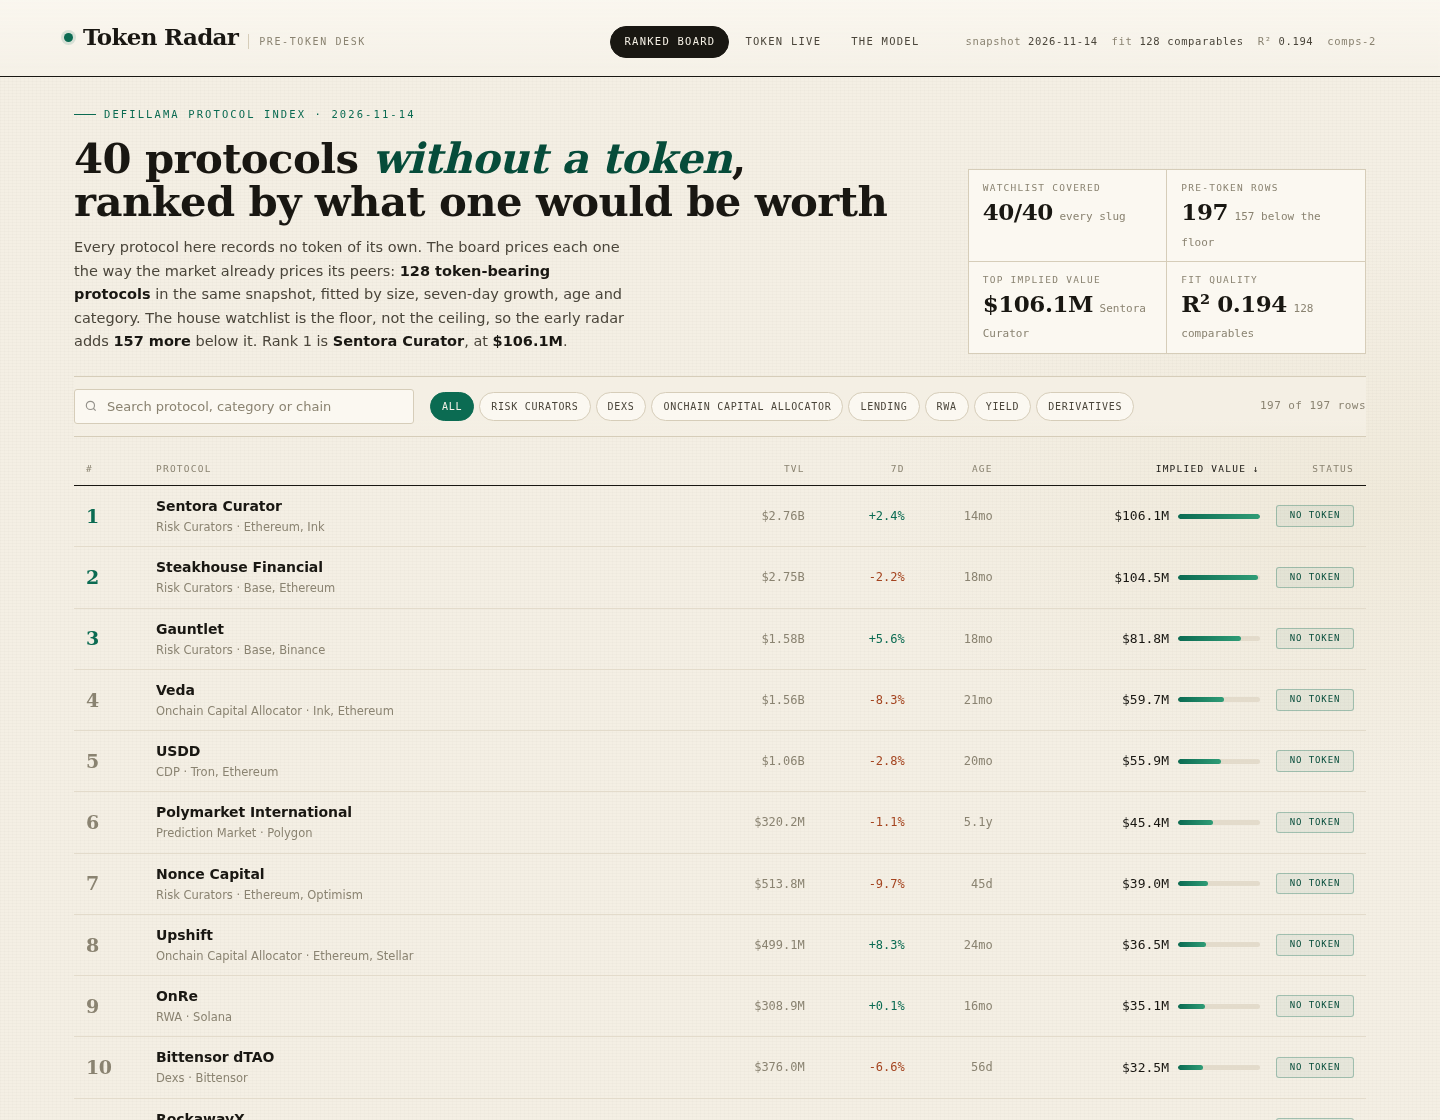
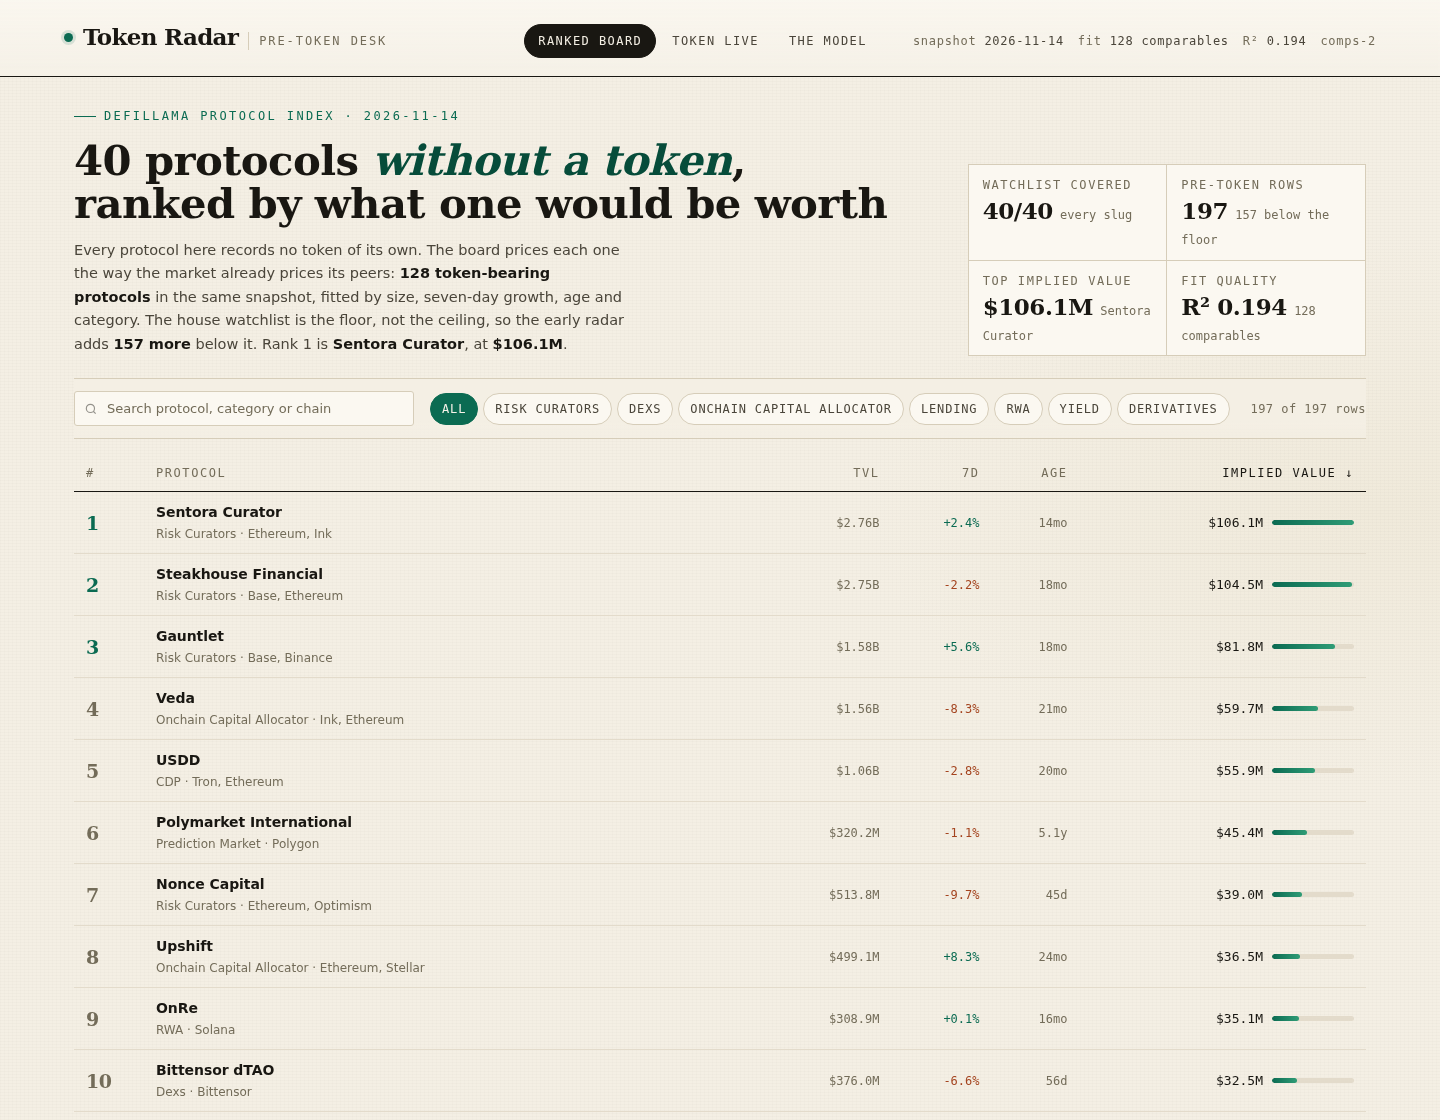
Dashboard: make the smallest text legible and drop a dead column
Three defects a reader would see, none of which the markup revealed.

--ink-faint was 3.29:1 on the paper background, under the 4.5:1 WCAG AA
floor for body text, and it carried the smallest text on the page. It
is now 4.56:1 on paper and 4.93:1 on card, same warm hue.

Seventeen font sizes sat between 9px and 11.5px, which reads as grey
texture rather than words at screenshot scale. Every size is now 12px
or larger; the grid was re-checked at 1440, tablet and phone widths and
no cell overflows or clips.

The last column was a 'no token' badge, identical in all 197 rows on a
board where every protocol is pre-token. It cost 78px and told a reader
nothing. Removed; the fact stays in the lede and each detail sheet, and
the name and value columns take the room.

diff --git a/dashboard/app.css b/dashboard/app.css
@@ -8,7 +8,7 @@
   --card:       #fbf8f1;
   --ink:        #191712;
   --ink-soft:   #4a453a;
-  --ink-faint:  #8a8371;
+  --ink-faint:  #736c59;   /* 4.56:1 on paper, 4.93:1 on card: the smallest text still clears AA */
   --rule:       #d6cdb9;
   --rule-soft:  #e3dbcb;
   --signal:     #0b6b52;   /* the one accent: a deep bottle green */
@@ -76,19 +76,19 @@ button { font: inherit; color: inherit; cursor: pointer; background: none; borde
 .pip { width: 9px; height: 9px; border-radius: 50%; background: var(--signal); align-self: center; box-shadow: 0 0 0 3px rgba(11,107,82,.14); }
 .wordmark { font-family: var(--serif); font-size: 23px; font-weight: 700; letter-spacing: -0.03em; }
 .mast-tag {
-  font-family: var(--mono); font-size: 10px; letter-spacing: .16em; text-transform: uppercase;
+  font-family: var(--mono); font-size: 12px; letter-spacing: .16em; text-transform: uppercase;
   color: var(--ink-faint); padding-left: 10px; border-left: 1px solid var(--rule);
 }
 .mast-nav { display: flex; gap: 2px; margin-left: auto; }
 .mast-nav button {
-  font-family: var(--mono); font-size: 10.5px; letter-spacing: .12em; text-transform: uppercase;
+  font-family: var(--mono); font-size: 12px; letter-spacing: .12em; text-transform: uppercase;
   padding: 7px 13px; border-radius: 999px; color: var(--ink-soft);
   border: 1px solid transparent; transition: background .15s, color .15s, border-color .15s;
 }
 .mast-nav button:hover { background: var(--paper-deep); color: var(--ink); }
 .mast-nav button[aria-selected="true"] { background: var(--ink); color: var(--paper); border-color: var(--ink); }
 .mast-meta {
-  font-family: var(--mono); font-size: 10.5px; letter-spacing: .06em; color: var(--ink-faint);
+  font-family: var(--mono); font-size: 12px; letter-spacing: .06em; color: var(--ink-faint);
   display: flex; gap: 14px; flex-wrap: wrap;
 }
 .mast-meta b { color: var(--ink-soft); font-weight: 500; }
@@ -103,7 +103,7 @@ button { font: inherit; color: inherit; cursor: pointer; background: none; borde
   padding: 30px 0 22px; border-bottom: 1px solid var(--rule);
 }
 .kicker {
-  font-family: var(--mono); font-size: 10.5px; letter-spacing: .2em; text-transform: uppercase;
+  font-family: var(--mono); font-size: 12px; letter-spacing: .2em; text-transform: uppercase;
   color: var(--signal); margin-bottom: 14px; display: flex; align-items: center; gap: 8px;
 }
 .kicker::before { content: ""; width: 22px; height: 1px; background: var(--signal); }
@@ -114,9 +114,9 @@ button { font: inherit; color: inherit; cursor: pointer; background: none; borde
 
 .stats { display: grid; grid-template-columns: 1fr 1fr; gap: 1px; background: var(--rule); border: 1px solid var(--rule); }
 .stat { background: var(--card); padding: 11px 14px; }
-.stat .k { font-family: var(--mono); font-size: 9.5px; letter-spacing: .13em; text-transform: uppercase; color: var(--ink-faint); }
+.stat .k { font-family: var(--mono); font-size: 12px; letter-spacing: .13em; text-transform: uppercase; color: var(--ink-faint); }
 .stat .v { font-family: var(--serif); font-size: 23px; line-height: 1.1; font-weight: 600; margin-top: 4px; letter-spacing: -.02em; }
-.stat .v small { font-family: var(--mono); font-size: 11px; color: var(--ink-faint); font-weight: 400; letter-spacing: 0; }
+.stat .v small { font-family: var(--mono); font-size: 12px; color: var(--ink-faint); font-weight: 400; letter-spacing: 0; }
 
 /* ── toolbar ──────────────────────────────────────────────────────────────── */
 
@@ -134,25 +134,25 @@ button { font: inherit; color: inherit; cursor: pointer; background: none; borde
 .search svg { position: absolute; left: 10px; top: 50%; transform: translateY(-50%); opacity: .45; }
 .chips { display: flex; gap: 5px; flex-wrap: wrap; }
 .chip {
-  font-family: var(--mono); font-size: 10px; letter-spacing: .07em; text-transform: uppercase;
+  font-family: var(--mono); font-size: 12px; letter-spacing: .07em; text-transform: uppercase;
   padding: 6px 11px; border: 1px solid var(--rule); border-radius: 999px; color: var(--ink-soft);
   background: var(--card); transition: all .14s;
 }
 .chip:hover { border-color: var(--ink-soft); color: var(--ink); }
 .chip[aria-pressed="true"] { background: var(--signal); border-color: var(--signal); color: #f6f2e8; }
-.toolbar .count { margin-left: auto; font-family: var(--mono); font-size: 11px; color: var(--ink-faint); letter-spacing: .04em; }
+.toolbar .count { margin-left: auto; font-family: var(--mono); font-size: 12px; color: var(--ink-faint); letter-spacing: .04em; }
 
 /* ── board ────────────────────────────────────────────────────────────────── */
 
 .board { margin-top: var(--s4); }
 .board-head, .row {
   display: grid;
-  grid-template-columns: 54px minmax(0, 2.35fr) 96px 84px 72px minmax(150px, 1.1fr) 78px;
+  grid-template-columns: 54px minmax(0, 2.6fr) 96px 84px 72px minmax(160px, 1.15fr);
   gap: var(--s4); align-items: center;
 }
 .board-head {
   padding: 9px var(--s3); border-bottom: 1px solid var(--ink);
-  font-family: var(--mono); font-size: 9.5px; letter-spacing: .13em; text-transform: uppercase; color: var(--ink-faint);
+  font-family: var(--mono); font-size: 12px; letter-spacing: .13em; text-transform: uppercase; color: var(--ink-faint);
 }
 .board-head button { color: inherit; letter-spacing: inherit; font-size: inherit; font-family: inherit; text-transform: inherit; padding: 0; text-align: left; }
 .board-head button:hover { color: var(--ink); }
@@ -173,7 +173,7 @@ button { font: inherit; color: inherit; cursor: pointer; background: none; borde
 }
 .row.top .rank { color: var(--signal); }
 .row .who b { display: block; font-weight: 600; font-size: 14px; letter-spacing: -.005em; }
-.row .who span { display: block; font-size: 11.5px; color: var(--ink-faint); margin-top: 2px; }
+.row .who span { display: block; font-size: 12px; color: var(--ink-faint); margin-top: 2px; }
 .row .num { font-family: var(--mono); font-size: 12px; font-variant-numeric: tabular-nums; text-align: right; }
 .row .num.pos { color: var(--signal); }
 .row .num.neg { color: var(--warn); }
@@ -183,7 +183,7 @@ button { font: inherit; color: inherit; cursor: pointer; background: none; borde
 .meter { flex: 1; max-width: 82px; height: 5px; background: var(--rule-soft); border-radius: 999px; overflow: hidden; }
 .meter i { display: block; height: 100%; background: linear-gradient(90deg, var(--signal), #2f9c76); border-radius: 999px; }
 .badge {
-  font-family: var(--mono); font-size: 9px; letter-spacing: .1em; text-transform: uppercase;
+  font-family: var(--mono); font-size: 12px; letter-spacing: .1em; text-transform: uppercase;
   color: var(--signal-ink); border: 1px solid rgba(11,107,82,.32); background: rgba(11,107,82,.06);
   padding: 3px 7px; border-radius: var(--r1); text-align: center; white-space: nowrap;
 }
@@ -203,7 +203,7 @@ button { font: inherit; color: inherit; cursor: pointer; background: none; borde
 .note p { color: var(--ink-soft); max-width: 52ch; }
 .note p + p { margin-top: 10px; }
 .formula {
-  font-family: var(--mono); font-size: 11.5px; line-height: 1.85; color: var(--ink);
+  font-family: var(--mono); font-size: 12px; line-height: 1.85; color: var(--ink);
   background: var(--card); border: 1px solid var(--rule); border-left: 3px solid var(--signal);
   padding: 14px 16px; border-radius: var(--r1); white-space: pre-wrap; word-break: break-word;
 }
@@ -217,7 +217,7 @@ button { font: inherit; color: inherit; cursor: pointer; background: none; borde
 .effect .e { font-family: var(--mono); text-align: right; font-variant-numeric: tabular-nums; }
 .effect .e.pos { color: var(--signal); }
 .effect .e.neg { color: var(--warn); }
-.effect .c { font-family: var(--mono); font-size: 10px; color: var(--ink-faint); text-align: right; }
+.effect .c { font-family: var(--mono); font-size: 12px; color: var(--ink-faint); text-align: right; }
 
 /* ── detail sheet ─────────────────────────────────────────────────────────── */
 
@@ -232,12 +232,12 @@ button { font: inherit; color: inherit; cursor: pointer; background: none; borde
   display: flex; align-items: flex-start; gap: var(--s4);
   padding: var(--s5) var(--s6) var(--s4); border-bottom: 1px solid var(--ink);
 }
-.sheet-head .rankline { font-family: var(--mono); font-size: 10px; letter-spacing: .14em; text-transform: uppercase; color: var(--signal); }
+.sheet-head .rankline { font-family: var(--mono); font-size: 12px; letter-spacing: .14em; text-transform: uppercase; color: var(--signal); }
 .sheet-head h2 { font-size: 30px; line-height: 1.08; margin-top: 6px; }
 .sheet-head .sub { color: var(--ink-faint); font-size: 12.5px; margin-top: 4px; }
 .sheet-close {
   margin-left: auto; border: 1px solid var(--rule); border-radius: 999px; padding: 6px 13px;
-  font-family: var(--mono); font-size: 10px; letter-spacing: .1em; text-transform: uppercase;
+  font-family: var(--mono); font-size: 12px; letter-spacing: .1em; text-transform: uppercase;
   background: var(--paper); flex: none;
 }
 .sheet-close:hover { border-color: var(--ink); }
@@ -245,12 +245,12 @@ button { font: inherit; color: inherit; cursor: pointer; background: none; borde
 
 .equation { display: grid; grid-template-columns: repeat(3, 1fr); gap: 1px; background: var(--rule); border: 1px solid var(--rule); margin-bottom: var(--s5); }
 .equation div { background: var(--paper); padding: 12px 14px; }
-.equation span { display: block; font-family: var(--mono); font-size: 9.5px; letter-spacing: .11em; text-transform: uppercase; color: var(--ink-faint); }
+.equation span { display: block; font-family: var(--mono); font-size: 12px; letter-spacing: .11em; text-transform: uppercase; color: var(--ink-faint); }
 .equation b { display: block; font-family: var(--mono); font-size: 15px; font-weight: 500; margin-top: 4px; font-variant-numeric: tabular-nums; }
 .equation b.big { font-family: var(--serif); font-size: 23px; color: var(--signal-ink); letter-spacing: -.02em; }
 
 .sheet h3 {
-  font-family: var(--mono); font-size: 10px; letter-spacing: .16em; text-transform: uppercase;
+  font-family: var(--mono); font-size: 12px; letter-spacing: .16em; text-transform: uppercase;
   color: var(--ink-faint); padding-bottom: 7px; border-bottom: 1px solid var(--rule); margin: var(--s5) 0 var(--s3);
 }
 .steps { margin: 0; padding: 0; list-style: none; counter-reset: step; }
@@ -260,7 +260,7 @@ button { font: inherit; color: inherit; cursor: pointer; background: none; borde
 .steps li::before {
   content: counter(step, decimal-leading-zero);
   position: absolute; left: 0; top: 1px;
-  font-family: var(--mono); font-size: 11px; color: var(--signal);
+  font-family: var(--mono); font-size: 12px; color: var(--signal);
   border: 1px solid rgba(11,107,82,.28); background: rgba(11,107,82,.05);
   width: 26px; height: 26px; border-radius: 50%; display: grid; place-items: center;
 }
@@ -269,7 +269,7 @@ button { font: inherit; color: inherit; cursor: pointer; background: none; borde
 }
 .steps li:last-child::after { display: none; }
 .steps .act { display: block; line-height: 1.55; }
-.steps .meta { display: block; margin-top: 5px; font-family: var(--mono); font-size: 10.5px; color: var(--ink-faint); }
+.steps .meta { display: block; margin-top: 5px; font-family: var(--mono); font-size: 12px; color: var(--ink-faint); }
 .steps .meta em { font-style: normal; color: var(--ink-soft); }
 
 /* ── responsive ───────────────────────────────────────────────────────────── */
@@ -278,7 +278,7 @@ button { font: inherit; color: inherit; cursor: pointer; background: none; borde
   .masthead, #main { padding-left: var(--s5); padding-right: var(--s5); }
   .lede { grid-template-columns: 1fr; gap: var(--s6); }
   .note { grid-template-columns: 1fr; gap: var(--s5); }
-  .board-head, .row { grid-template-columns: 44px minmax(0,2fr) 86px 74px minmax(120px,1fr) 70px; }
+  .board-head, .row { grid-template-columns: 44px minmax(0,2.2fr) 86px 74px minmax(120px,1fr); }
   .board-head .h-age, .row .c-age { display: none; }
 }
 @media (max-width: 760px) {
@@ -286,7 +286,7 @@ button { font: inherit; color: inherit; cursor: pointer; background: none; borde
   .mast-meta { display: none; }
   .board-head { display: none; }
   .row { grid-template-columns: 40px minmax(0,1fr) minmax(110px,.9fr); }
-  .row .c-tvl, .row .c-grow, .row .badge { display: none; }
+  .row .c-tvl, .row .c-grow { display: none; }
   .equation { grid-template-columns: 1fr 1fr; }
   .sheet-head, .sheet-body { padding-left: var(--s4); padding-right: var(--s4); }
 }

diff --git a/dashboard/app.js b/dashboard/app.js
@@ -253,8 +253,7 @@
       headCell('TVL', 'tvl', 'r'),
       headCell('7d', 'growth', 'r'),
       headCell('Age', 'age', 'r h-age'),
-      headCell('Implied value', 'implied', 'r'),
-      el('div', { class: 'r', text: 'Status' })
+      headCell('Implied value', 'implied', 'r')
     );
   }
   function board() {
@@ -292,8 +291,7 @@
           el('span', { class: 'meter', 'aria-hidden': 'true' },
             el('i', { style: 'width:' + Math.max(4, Math.round((r.implied_value_usd / max) * 100)) + '%' })
           )
-        ),
-        el('div', { class: 'badge', text: 'no token' })
+        )
       );
       body.appendChild(row);
     });
@@ -454,7 +452,7 @@
       'Assumed: growth ' + growth.toFixed(1) + 'pp → ×' + predicted.gf.toFixed(3) + ', age ' + age(row.age_days) + ' → ×' + predicted.af.toFixed(3) +
       ', both clamped so neither can invert the ranking by size.'
     ));
-    body.appendChild(el('p', { style: 'margin-top:10px;font-family:var(--mono);font-size:11px;color:var(--ink-faint)' },
+    body.appendChild(el('p', { style: 'margin-top:10px;font-family:var(--mono);font-size:12px;color:var(--ink-faint)' },
       money(predicted.size) + ' × ' + predicted.gf.toFixed(3) + ' × ' + predicted.af.toFixed(3) + ' = ' + money(predicted.implied) +
       (agrees ? ', the same number board.json carries.' : ', which differs from the board: the data would be stale.') + ' An estimate, not a price, and not advice.'
     ));
